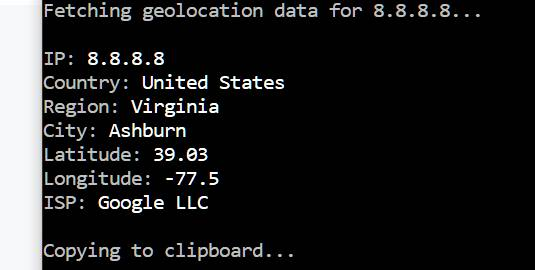
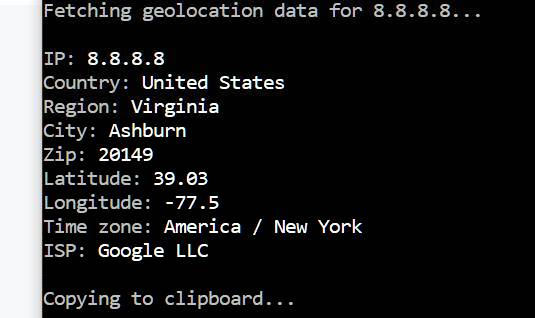
Added zip + time zone to CLI output

diff --git a/geolocate/src/cli.js b/geolocate/src/cli.js
@@ -80,8 +80,13 @@ const pkgName = '@adamlui/geolocate',
             console.info(`Country: ${bw + geoResults[0].country + nc}`);
             console.info(`Region: ${bw + geoResults[0].regionName + nc}`);
             console.info(`City: ${bw + geoResults[0].city + nc}`);
+            console.info(`Zip: ${bw + geoResults[0].zip + nc}`);
             console.info(`Latitude: ${bw + geoResults[0].lat + nc}`);
             console.info(`Longitude: ${bw + geoResults[0].lon + nc}`);
+            console.info(`Time zone: ${bw + geoResults[0].timezone
+                .replace(/_/g, ' ') // insert spaces
+                .replace(/\//g, ' / ') // pad slashes
+                    + nc}`);
             console.info(`ISP: ${bw + geoResults[0].isp + nc}`);
         }
 
